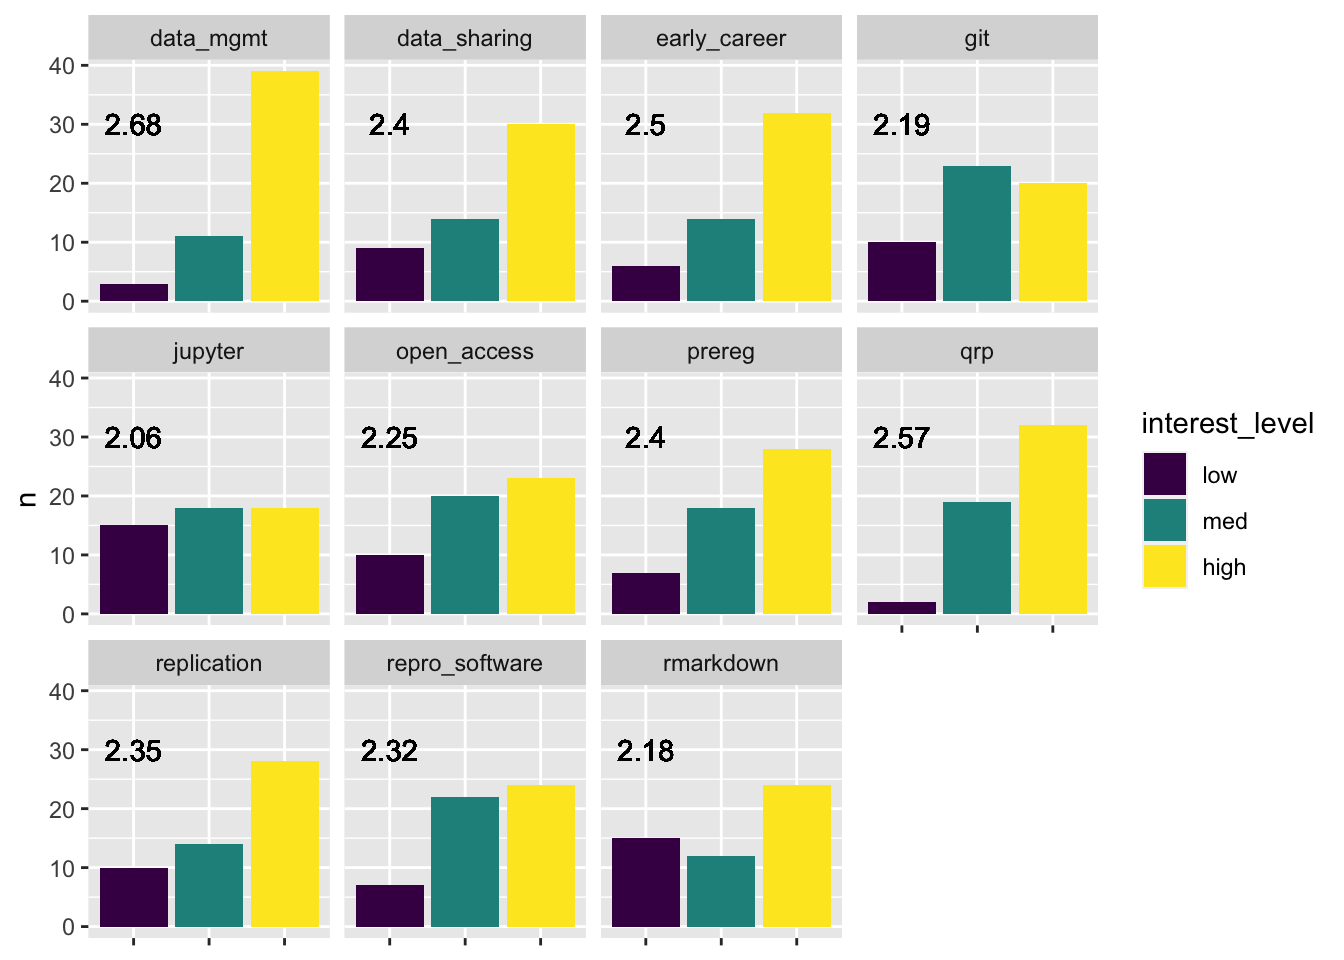
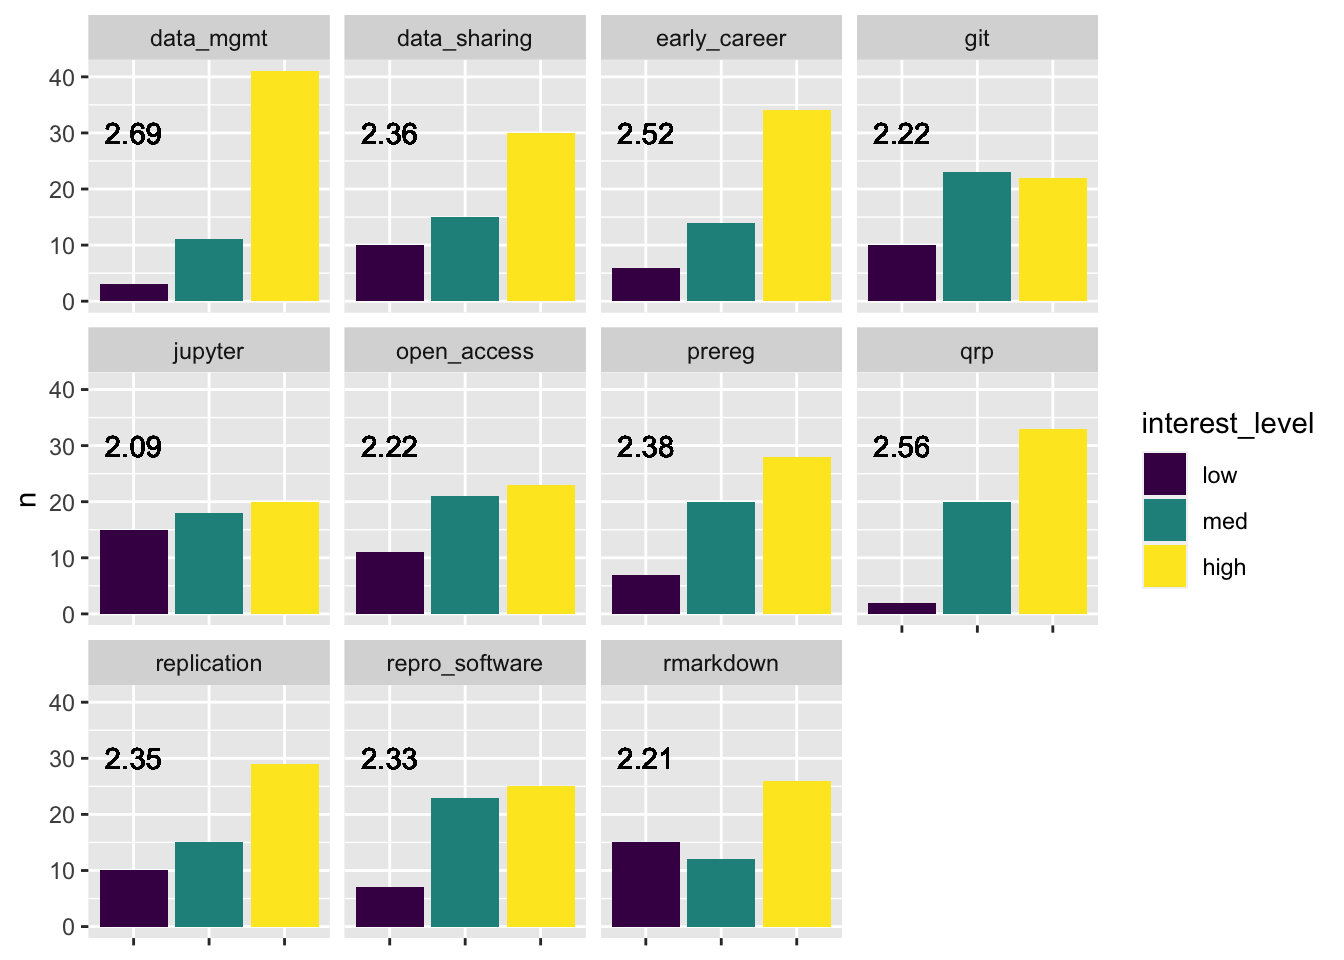
Add info to data and materials sharing workshop following mtg with Bruce D.

diff --git a/docs/presentation-topics.html b/docs/presentation-topics.html
@@ -94,13 +94,12 @@
 <p>The following are potential presentation topics we are considering for <a href="day_1.html#day_1">Day 1</a> and <a href="day_2.html#day_2">Day 2</a>.</p>
 <p>These are also topics that might be offered later on after the bootcamp.</p>
 <p>Some of the presentations have been suggested by a specific person, and others are topics that Rick Gilmore thought might be appropriate for a person or group.
-The person indicated in the parentheses is the tentative or proposed coordinator for that workshop as of 2023-06-14.
+The person indicated in the parentheses is the tentative or proposed coordinator for that workshop as of 2023-06-23.
 Question marks (?) indicate that the person has not yet confirmed their interest or availability.
 The information is merely for planning purposes.
 Which hands-on topics we offer will be shaped by the preferences of prospective participants, as indicated in a May 2023 <a href="attendee-surveys.html#results">survey</a>.</p>
-<div id="theme-what-is-open-science-open-science-psu" class="section level2" number="0.1">
-<h2>
-<span class="header-section-number">0.1</span> Theme: What is open science? Open science @ PSU<a class="anchor" aria-label="anchor" href="#theme-what-is-open-science-open-science-psu"><i class="fas fa-link"></i></a>
+<div id="theme-what-is-open-science-open-science-psu" class="section level2 unnumbered">
+<h2>Theme: What is open science? Open science @ PSU<a class="anchor" aria-label="anchor" href="#theme-what-is-open-science-open-science-psu"><i class="fas fa-link"></i></a>
 </h2>
 <div id="what-is-open-science-why-do-open-science-rick-gilmore" class="section level3 unnumbered">
 <h3>What is open science? Why do open science? (<a href="program-planning-committee.html#rick-gilmore">Rick Gilmore</a>)<a class="anchor" aria-label="anchor" href="#what-is-open-science-why-do-open-science-rick-gilmore"><i class="fas fa-link"></i></a>
@@ -204,10 +203,14 @@ These tools can be used to create slides, analysis reports, papers, and web site
 </h3>
 <p>Where can you share data and materials?
 Where <em>should</em> you share data and materials?
-This workshop will demonstrate how researchers can use the <a href="https://osf.io">Open Science Framework (OSF)</a>, <a href="https://databrary.org">Databrary</a>, and other data and materials repositories both to share data and materials and to repurpose data and materials shared by others.</p>
+<em>When</em> can and should you share data and materials?
+This workshop will demonstrate how researchers can use <a href="https://dataverse.org">Dataverse</a>, the <a href="https://osf.io">Open Science Framework (OSF)</a>, <a href="https://databrary.org">Databrary</a>, and other data and materials repositories both to share data and materials and to repurpose data and materials shared by others.
+The workshop will also discuss recent initiatives in some fields that require
+data and code sharing prior to the publication of an article so that statistical
+results and figures can be verified.</p>
 <p><em>Prerequisites</em>: None</p>
 <p><em>Skill level</em>: Novice</p>
-<p><em>Time required</em>: 30-45 min</p>
+<p><em>Time required</em>: 50 min</p>
 <p><em>Offered</em>: <a href="day_2.html#day_2_pm_session_4">Thu PM Session 4</a></p>
 </div>
 <div id="howto_jupyter" class="section level3 unnumbered">
@@ -272,7 +275,7 @@ In addition to providing a first-of-its-kind openly shared video corpus of natur
       <ul class="nav navbar-nav">
 <li><a class="nav-link" href="#presentation-topics">Presentation topics</a></li>
 <li>
-<a class="nav-link" href="#theme-what-is-open-science-open-science-psu"><span class="header-section-number">0.1</span> Theme: What is open science? Open science @ PSU</a><ul class="nav navbar-nav">
+<a class="nav-link" href="#theme-what-is-open-science-open-science-psu">Theme: What is open science? Open science @ PSU</a><ul class="nav navbar-nav">
 <li><a class="nav-link" href="#what-is-open-science-why-do-open-science-rick-gilmore">What is open science? Why do open science? (Rick Gilmore)</a></li>
 <li><a class="nav-link" href="#open-science-psu">Open science @ PSU</a></li>
 <li><a class="nav-link" href="#keynote">Keynote (Tim Errington)</a></li>
@@ -319,7 +322,7 @@ In addition to providing a first-of-its-kind openly shared video corpus of natur
 <footer class="bg-primary text-light mt-5"><div class="container"><div class="row">
 
   <div class="col-12 col-md-6 mt-3">
-    <p>"<strong>Open Science Bootcamp 2023</strong>" was written by The 2023 Bootcamp Program Planning Committee. It was last built on 2023-06-14.</p>
+    <p>"<strong>Open Science Bootcamp 2023</strong>" was written by The 2023 Bootcamp Program Planning Committee. It was last built on 2023-06-23.</p>
   </div>
 
   <div class="col-12 col-md-6 mt-3">

diff --git a/docs/attendee-surveys.html b/docs/attendee-surveys.html
@@ -6,15 +6,15 @@
 <meta name="viewport" content="width=device-width, initial-scale=1, shrink-to-fit=no">
 <title>Attendee surveys | Open Science Bootcamp 2023</title>
 <meta name="author" content="The 2023 Bootcamp Program Planning Committee">
-<meta name="description" content="This page summarizes the data collected from prospective and actual Bootcamp attendees. Survey 1 - May 1, 2023 Render date: 2023-06-14 16:11:28.222205 Survey link:...">
+<meta name="description" content="This page summarizes the data collected from prospective and actual Bootcamp attendees. Survey 1 - May 1, 2023 Render date: 2023-06-23 10:52:49.510273 Survey link:...">
 <meta name="generator" content="bookdown 0.34 with bs4_book()">
 <meta property="og:title" content="Attendee surveys | Open Science Bootcamp 2023">
 <meta property="og:type" content="book">
 <meta property="og:url" content="https://penn-state-open-science.github.io/bootcamp-2023/attendee-surveys.html">
-<meta property="og:description" content="This page summarizes the data collected from prospective and actual Bootcamp attendees. Survey 1 - May 1, 2023 Render date: 2023-06-14 16:11:28.222205 Survey link:...">
+<meta property="og:description" content="This page summarizes the data collected from prospective and actual Bootcamp attendees. Survey 1 - May 1, 2023 Render date: 2023-06-23 10:52:49.510273 Survey link:...">
 <meta name="twitter:card" content="summary">
 <meta name="twitter:title" content="Attendee surveys | Open Science Bootcamp 2023">
-<meta name="twitter:description" content="This page summarizes the data collected from prospective and actual Bootcamp attendees. Survey 1 - May 1, 2023 Render date: 2023-06-14 16:11:28.222205 Survey link:...">
+<meta name="twitter:description" content="This page summarizes the data collected from prospective and actual Bootcamp attendees. Survey 1 - May 1, 2023 Render date: 2023-06-23 10:52:49.510273 Survey link:...">
 <!-- JS --><script src="https://cdnjs.cloudflare.com/ajax/libs/clipboard.js/2.0.6/clipboard.min.js" integrity="sha256-inc5kl9MA1hkeYUt+EC3BhlIgyp/2jDIyBLS6k3UxPI=" crossorigin="anonymous"></script><script src="https://cdnjs.cloudflare.com/ajax/libs/fuse.js/6.4.6/fuse.js" integrity="sha512-zv6Ywkjyktsohkbp9bb45V6tEMoWhzFzXis+LrMehmJZZSys19Yxf1dopHx7WzIKxr5tK2dVcYmaCk2uqdjF4A==" crossorigin="anonymous"></script><script src="https://kit.fontawesome.com/6ecbd6c532.js" crossorigin="anonymous"></script><script src="libs/jquery-3.6.0/jquery-3.6.0.min.js"></script><meta name="viewport" content="width=device-width, initial-scale=1, shrink-to-fit=no">
 <link href="libs/bootstrap-4.6.0/bootstrap.min.css" rel="stylesheet">
 <script src="libs/bootstrap-4.6.0/bootstrap.bundle.min.js"></script><script src="libs/bs3compat-0.4.2/transition.js"></script><script src="libs/bs3compat-0.4.2/tabs.js"></script><script src="libs/bs3compat-0.4.2/bs3compat.js"></script><link href="libs/bs4_book-1.0.0/bs4_book.css" rel="stylesheet">
@@ -95,7 +95,7 @@
 <div id="survey-1---may-1-2023" class="section level2 unnumbered">
 <h2>Survey 1 - May 1, 2023<a class="anchor" aria-label="anchor" href="#survey-1---may-1-2023"><i class="fas fa-link"></i></a>
 </h2>
-<p>Render date: 2023-06-14 16:11:28.222205</p>
+<p>Render date: 2023-06-23 10:52:49.510273</p>
 <p>Survey link: <a href="https://docs.google.com/forms/d/e/1FAIpQLSf_hIVQz3CoDq2bzjTNExw-Hn6uXLAf8ri4v8k5lRkifclxsQ/viewform?usp=sf_link" class="uri">https://docs.google.com/forms/d/e/1FAIpQLSf_hIVQz3CoDq2bzjTNExw-Hn6uXLAf8ri4v8k5lRkifclxsQ/viewform?usp=sf_link</a></p>
 <iframe src="https://docs.google.com/forms/d/e/1FAIpQLSf_hIVQz3CoDq2bzjTNExw-Hn6uXLAf8ri4v8k5lRkifclxsQ/viewform?embedded=true" width="640" height="1321" frameborder="0" marginheight="0" marginwidth="0">
 Loading…
@@ -104,6 +104,7 @@ Loading…
 <h3>Results<a class="anchor" aria-label="anchor" href="#results"><i class="fas fa-link"></i></a>
 </h3>
 <p>Download.</p>
+<pre><code>## Auto-refreshing stale OAuth token.</code></pre>
 <pre><code>## File downloaded:</code></pre>
 <pre><code>## • 'Open Science Bootcamp 2023 (Responses)'
 ##   &lt;id: 17Rd9rxVKmNPQezRJjrWMpa7aE8KtCfMggXi-Pv18Nzc&gt;</code></pre>
@@ -222,7 +223,7 @@ OMG! I love all these options/topics! Thank you so so much!!!!
 <footer class="bg-primary text-light mt-5"><div class="container"><div class="row">
 
   <div class="col-12 col-md-6 mt-3">
-    <p>"<strong>Open Science Bootcamp 2023</strong>" was written by The 2023 Bootcamp Program Planning Committee. It was last built on 2023-06-14.</p>
+    <p>"<strong>Open Science Bootcamp 2023</strong>" was written by The 2023 Bootcamp Program Planning Committee. It was last built on 2023-06-23.</p>
   </div>
 
   <div class="col-12 col-md-6 mt-3">

diff --git a/docs/index.html b/docs/index.html
@@ -205,7 +205,7 @@ Figure 4: Keller Building location from <a href="https://www.map.psu.edu" class=
 <footer class="bg-primary text-light mt-5"><div class="container"><div class="row">
 
   <div class="col-12 col-md-6 mt-3">
-    <p>"<strong>Open Science Bootcamp 2023</strong>" was written by The 2023 Bootcamp Program Planning Committee. It was last built on 2023-06-14.</p>
+    <p>"<strong>Open Science Bootcamp 2023</strong>" was written by The 2023 Bootcamp Program Planning Committee. It was last built on 2023-06-23.</p>
   </div>
 
   <div class="col-12 col-md-6 mt-3">

diff --git a/docs/references.html b/docs/references.html
@@ -129,7 +129,7 @@ Wilson, G., Bryan, J., Cranston, K., Kitzes, J., Nederbragt, L., &amp; Teal, T. 
 <footer class="bg-primary text-light mt-5"><div class="container"><div class="row">
 
   <div class="col-12 col-md-6 mt-3">
-    <p>"<strong>Open Science Bootcamp 2023</strong>" was written by The 2023 Bootcamp Program Planning Committee. It was last built on 2023-06-14.</p>
+    <p>"<strong>Open Science Bootcamp 2023</strong>" was written by The 2023 Bootcamp Program Planning Committee. It was last built on 2023-06-23.</p>
   </div>
 
   <div class="col-12 col-md-6 mt-3">

diff --git a/docs/this-site.html b/docs/this-site.html
@@ -199,7 +199,7 @@ In our case, the URL is <a href="https://penn-state-open-science.github.io/bootc
 <footer class="bg-primary text-light mt-5"><div class="container"><div class="row">
 
   <div class="col-12 col-md-6 mt-3">
-    <p>"<strong>Open Science Bootcamp 2023</strong>" was written by The 2023 Bootcamp Program Planning Committee. It was last built on 2023-06-14.</p>
+    <p>"<strong>Open Science Bootcamp 2023</strong>" was written by The 2023 Bootcamp Program Planning Committee. It was last built on 2023-06-23.</p>
   </div>
 
   <div class="col-12 col-md-6 mt-3">

diff --git a/docs/404.html b/docs/404.html
@@ -107,7 +107,7 @@ the table of contents to find the page you are looking for.</p>
 <footer class="bg-primary text-light mt-5"><div class="container"><div class="row">
 
   <div class="col-12 col-md-6 mt-3">
-    <p>"<strong>Open Science Bootcamp 2023</strong>" was written by The 2023 Bootcamp Program Planning Committee. It was last built on 2023-06-14.</p>
+    <p>"<strong>Open Science Bootcamp 2023</strong>" was written by The 2023 Bootcamp Program Planning Committee. It was last built on 2023-06-23.</p>
   </div>
 
   <div class="col-12 col-md-6 mt-3">

diff --git a/docs/day_2.html b/docs/day_2.html
@@ -288,7 +288,7 @@ Locations and topics will be announced later.</p>
 <footer class="bg-primary text-light mt-5"><div class="container"><div class="row">
 
   <div class="col-12 col-md-6 mt-3">
-    <p>"<strong>Open Science Bootcamp 2023</strong>" was written by The 2023 Bootcamp Program Planning Committee. It was last built on 2023-06-14.</p>
+    <p>"<strong>Open Science Bootcamp 2023</strong>" was written by The 2023 Bootcamp Program Planning Committee. It was last built on 2023-06-23.</p>
   </div>
 
   <div class="col-12 col-md-6 mt-3">

diff --git a/docs/day_1.html b/docs/day_1.html
@@ -212,7 +212,7 @@
 <footer class="bg-primary text-light mt-5"><div class="container"><div class="row">
 
   <div class="col-12 col-md-6 mt-3">
-    <p>"<strong>Open Science Bootcamp 2023</strong>" was written by The 2023 Bootcamp Program Planning Committee. It was last built on 2023-06-14.</p>
+    <p>"<strong>Open Science Bootcamp 2023</strong>" was written by The 2023 Bootcamp Program Planning Committee. It was last built on 2023-06-23.</p>
   </div>
 
   <div class="col-12 col-md-6 mt-3">

diff --git a/docs/day_3.html b/docs/day_3.html
@@ -176,7 +176,7 @@
 <footer class="bg-primary text-light mt-5"><div class="container"><div class="row">
 
   <div class="col-12 col-md-6 mt-3">
-    <p>"<strong>Open Science Bootcamp 2023</strong>" was written by The 2023 Bootcamp Program Planning Committee. It was last built on 2023-06-14.</p>
+    <p>"<strong>Open Science Bootcamp 2023</strong>" was written by The 2023 Bootcamp Program Planning Committee. It was last built on 2023-06-23.</p>
   </div>
 
   <div class="col-12 col-md-6 mt-3">

diff --git a/docs/presenters.html b/docs/presenters.html
@@ -130,7 +130,7 @@
 <footer class="bg-primary text-light mt-5"><div class="container"><div class="row">
 
   <div class="col-12 col-md-6 mt-3">
-    <p>"<strong>Open Science Bootcamp 2023</strong>" was written by The 2023 Bootcamp Program Planning Committee. It was last built on 2023-06-14.</p>
+    <p>"<strong>Open Science Bootcamp 2023</strong>" was written by The 2023 Bootcamp Program Planning Committee. It was last built on 2023-06-23.</p>
   </div>
 
   <div class="col-12 col-md-6 mt-3">

diff --git a/docs/program-planning-committee.html b/docs/program-planning-committee.html
@@ -202,7 +202,7 @@
 <footer class="bg-primary text-light mt-5"><div class="container"><div class="row">
 
   <div class="col-12 col-md-6 mt-3">
-    <p>"<strong>Open Science Bootcamp 2023</strong>" was written by The 2023 Bootcamp Program Planning Committee. It was last built on 2023-06-14.</p>
+    <p>"<strong>Open Science Bootcamp 2023</strong>" was written by The 2023 Bootcamp Program Planning Committee. It was last built on 2023-06-23.</p>
   </div>
 
   <div class="col-12 col-md-6 mt-3">

diff --git a/docs/resources.html b/docs/resources.html
@@ -198,7 +198,7 @@
 <footer class="bg-primary text-light mt-5"><div class="container"><div class="row">
 
   <div class="col-12 col-md-6 mt-3">
-    <p>"<strong>Open Science Bootcamp 2023</strong>" was written by The 2023 Bootcamp Program Planning Committee. It was last built on 2023-06-14.</p>
+    <p>"<strong>Open Science Bootcamp 2023</strong>" was written by The 2023 Bootcamp Program Planning Committee. It was last built on 2023-06-23.</p>
   </div>
 
   <div class="col-12 col-md-6 mt-3">
